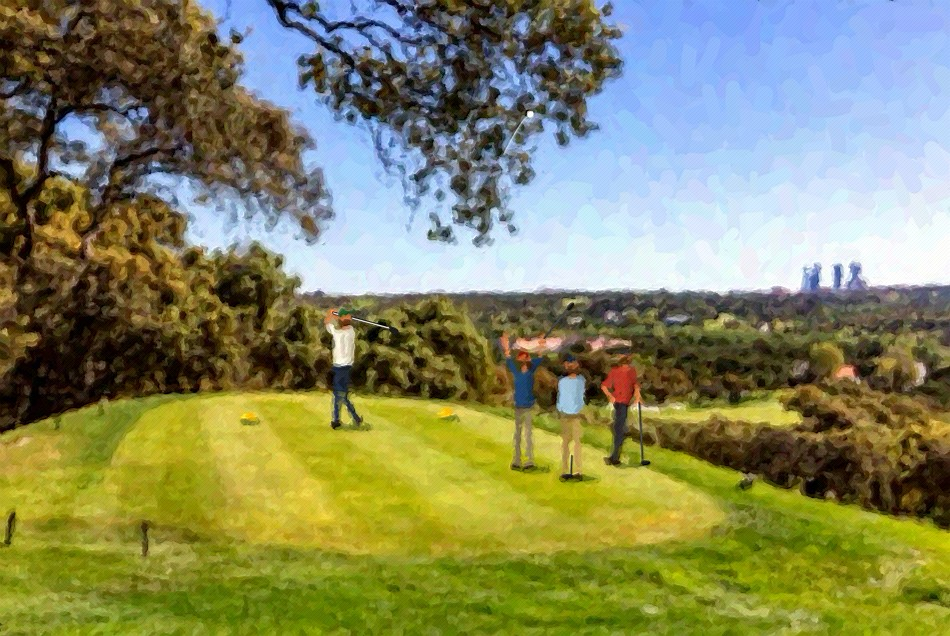
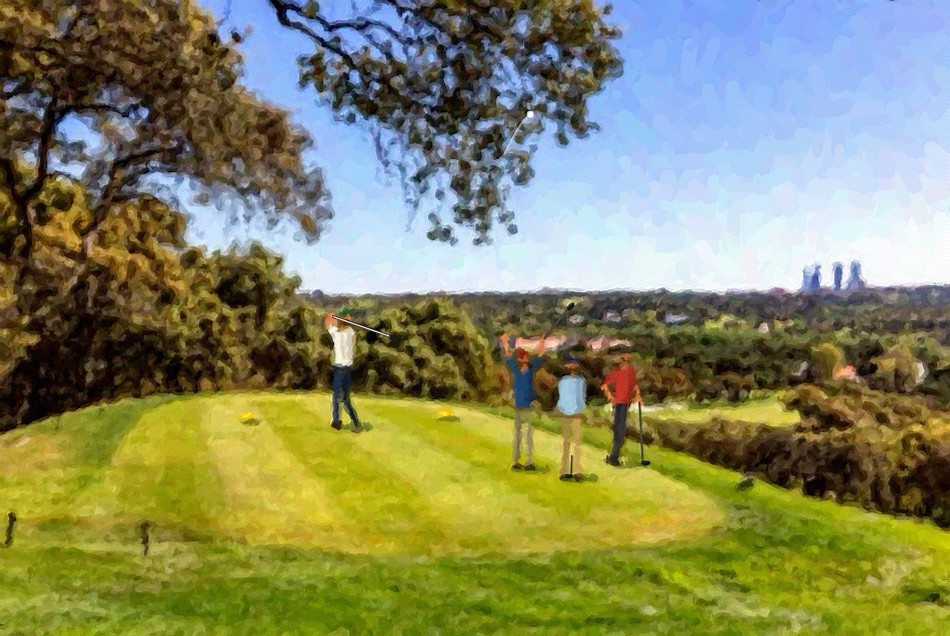
Tarjeta: golfer's shaft across the back of his neck, right leg as in the reference finish

diff --git a/golf/tarjeta/img/paint.js b/golf/tarjeta/img/paint.js
@@ -7,7 +7,7 @@
 // strokes, coarse to fine, each laid along the direction of the shapes underneath, with a little
 // relief so the paint catches the light. The result is kept on this phone so it is only painted once.
 let sketchURL = null, sketching = false;
-const PAINT_VERSION = 'paint-v11';
+const PAINT_VERSION = 'paint-v14';
 function paintGolfers(x, S) {
   clubs = [];
   // photo pixels (475 x 318) to canvas pixels
@@ -68,31 +68,30 @@ function paintGolfers(x, S) {
     const u = h / 64, X = v => fx + v * u, Y = v => fy - v * u;
     shadow(fx + 2 * u, fy, 11 * u);
     poly([[X(-5.5), Y(32)], [X(-1), Y(32)], [X(-2.5), Y(1)], [X(-6), Y(1)]], pants);                                          // left leg, straight
-    poly([[X(-.5), Y(32)], [X(4), Y(32)], [X(2.5), Y(16)], [X(8.5), Y(4)], [X(6), Y(2.5)], [X(-1), Y(15)]], sh(pants, .82));  // right knee in, heel up
+    // right leg as in the reference: thigh down from the hip, knee turned in towards the left leg, shin
+    // running down and out to the right to a foot a little nearer to us, up on its toe
+    poly([[X(.2), Y(32)], [X(4.8), Y(32)], [X(2.6), Y(16.5)], [X(9), Y(1.6)], [X(5.8), Y(.2)], [X(-1.4), Y(15)]], sh(pants, .7));
+    line(X(-1.2), Y(15.6), X(2.4), Y(16.4), .8 * u, sh(pants, .5));                                                           // crease at the knee
     poly([[X(-7), Y(1.5)], [X(-1.5), Y(1.5)], [X(-1.5), Y(-.5)], [X(-7.5), Y(-.5)]], '#2a241f');                            // left shoe
-    x.save(); x.translate(X(8.2), Y(2.4)); x.rotate(-1.05);                                                                    // right shoe on its toe
-    x.fillStyle = '#2a241f'; x.beginPath(); x.ellipse(0, 0, 3.2 * u, 1.5 * u, 0, 0, 7); x.fill();
-    x.fillStyle = '#6d655c'; x.beginPath(); x.ellipse(-.3 * u, .3 * u, 2.5 * u, .9 * u, 0, 0, 7); x.fill(); x.restore();
+    x.save(); x.translate(X(7.8), Y(-1.2)); x.rotate(-1.3);                                                                    // right shoe on its toe, sole to us
+    x.fillStyle = '#2a241f'; x.beginPath(); x.ellipse(0, 0, 3.1 * u, 1.6 * u, 0, 0, 7); x.fill();
+    x.fillStyle = '#6d655c'; x.beginPath(); x.ellipse(.2 * u, .35 * u, 2.4 * u, 1 * u, 0, 0, 7); x.fill(); x.restore();
     poly([[X(-6.5), Y(54)], [X(6), Y(53)], [X(4.8), Y(32)], [X(-5), Y(32)]], shirt);                                          // back, turned to the target
     poly([[X(1.5), Y(53.5)], [X(6), Y(53)], [X(4.8), Y(32)], [X(1.8), Y(32)]], sh(shirt, .8));
     line(X(-1), Y(50), X(0), Y(38), 1 * u, sh(shirt, .7));                                                                     // crease down the back
     poly([[X(-5), Y(34)], [X(4.8), Y(34)], [X(4.8), Y(32)], [X(-5), Y(32)]], sh(pants, .6));                                  // belt
-    line(X(-5.5), Y(52), X(-9), Y(58), 3.3 * u, shirt); line(X(-9), Y(58), X(-6.8), Y(63), 2.7 * u, skin);                   // left arm up
-    line(X(5), Y(52), X(-1), Y(58.5), 3.3 * u, sh(shirt, .85)); line(X(-1), Y(58.5), X(-5.4), Y(63), 2.7 * u, sh(skin, .9)); // right arm across
-    disc(X(-6), Y(63.5), 2.1 * u, skin);                                                                                        // hands, by his left ear
+    line(X(-5.5), Y(52), X(-9), Y(58), 3.3 * u, shirt); line(X(-9), Y(57), X(-6.8), Y(61), 2.7 * u, skin);                   // left arm up
+    line(X(5), Y(52), X(-1), Y(58.5), 3.3 * u, sh(shirt, .85)); line(X(-1), Y(57.5), X(-5.4), Y(61), 2.7 * u, sh(skin, .9)); // right arm across
+    disc(X(-6), Y(61.5), 2.1 * u, skin);                                                                                        // hands, by his left ear
     line(X(.3), Y(54.5), X(.5), Y(57), 2.6 * u, sh(skin, .85));                                                               // neck
     disc(X(.6), Y(60), 3.9 * u, sh(skin, .9));
     x.fillStyle = hair; x.beginPath(); x.arc(X(.6), Y(60), 3.9 * u, .2, Math.PI - .2); x.fill();                             // back of the head
     x.fillStyle = cap; x.beginPath(); x.arc(X(.6), Y(60.8), 4.1 * u, Math.PI + .15, -.35); x.fill();                        // cap from behind
     x.save(); x.translate(X(3.8), Y(63.4)); x.rotate(-.9); x.fillStyle = sh(cap, .85); x.fillRect(0, -.7 * u, 3.6 * u, 1.4 * u); x.restore(); // peak up to the right
     x.fillStyle = '#e8dcc0'; x.fillRect(X(-.4), Y(1.6), .8 * u, 1.8 * u);                                                    // empty tee peg in front
-    // club across behind the head, clubhead out to the right: the shaft is left out where it crosses the head
-    const cy = v => 63.5 + (v + 6) * (55 - 63.5) / 32;                  // shaft height at a given x
-    const gapL = -3.4, gapR = 4.5;                                        // where the head hides it
-    for (const [a, b, head] of [[-6, gapL, null], [gapR, 26, [1.8 * u, 1.2 * u, 3 * u, 1.7 * u, .5]]]) {
-      clubs.push([X(a), Y(cy(a)), X(b), Y(cy(b)), 1.5 * u, '#3a3833', null]);
-      clubs.push([X(a), Y(cy(a)), X(b), Y(cy(b)), .7 * u, '#d8d8d0', head]);
-    }
+    // club resting across the back of his neck: seen from behind it lies in front of his head, unbroken
+    clubs.push([X(-6), Y(61.5), X(26), Y(50.5), 1.5 * u, '#3a3833', null]);
+    clubs.push([X(-6), Y(61.5), X(26), Y(50.5), .7 * u, '#d8d8d0', [1.8 * u, 1.2 * u, 3 * u, 1.7 * u, .5]]);
   };
   // tee markers
   const marker = (mx, my, r) => {

diff --git a/golf/tarjeta/index.html b/golf/tarjeta/index.html
@@ -711,7 +711,7 @@ function vHome() {
   app.innerHTML = `
     <section class="agh">
       <div class="agh-scene" aria-hidden="true">
-        <img class="agh-sketch" src="img/tee-painting.jpg?v=11" alt="Óleo del tee del Club de Campo con cuatro jugadores">
+        <img class="agh-sketch" src="img/tee-painting.jpg?v=14" alt="Óleo del tee del Club de Campo con cuatro jugadores">
       </div>
       <div class="agh-board">
         <div class="agh-arch">TARJETA</div>
